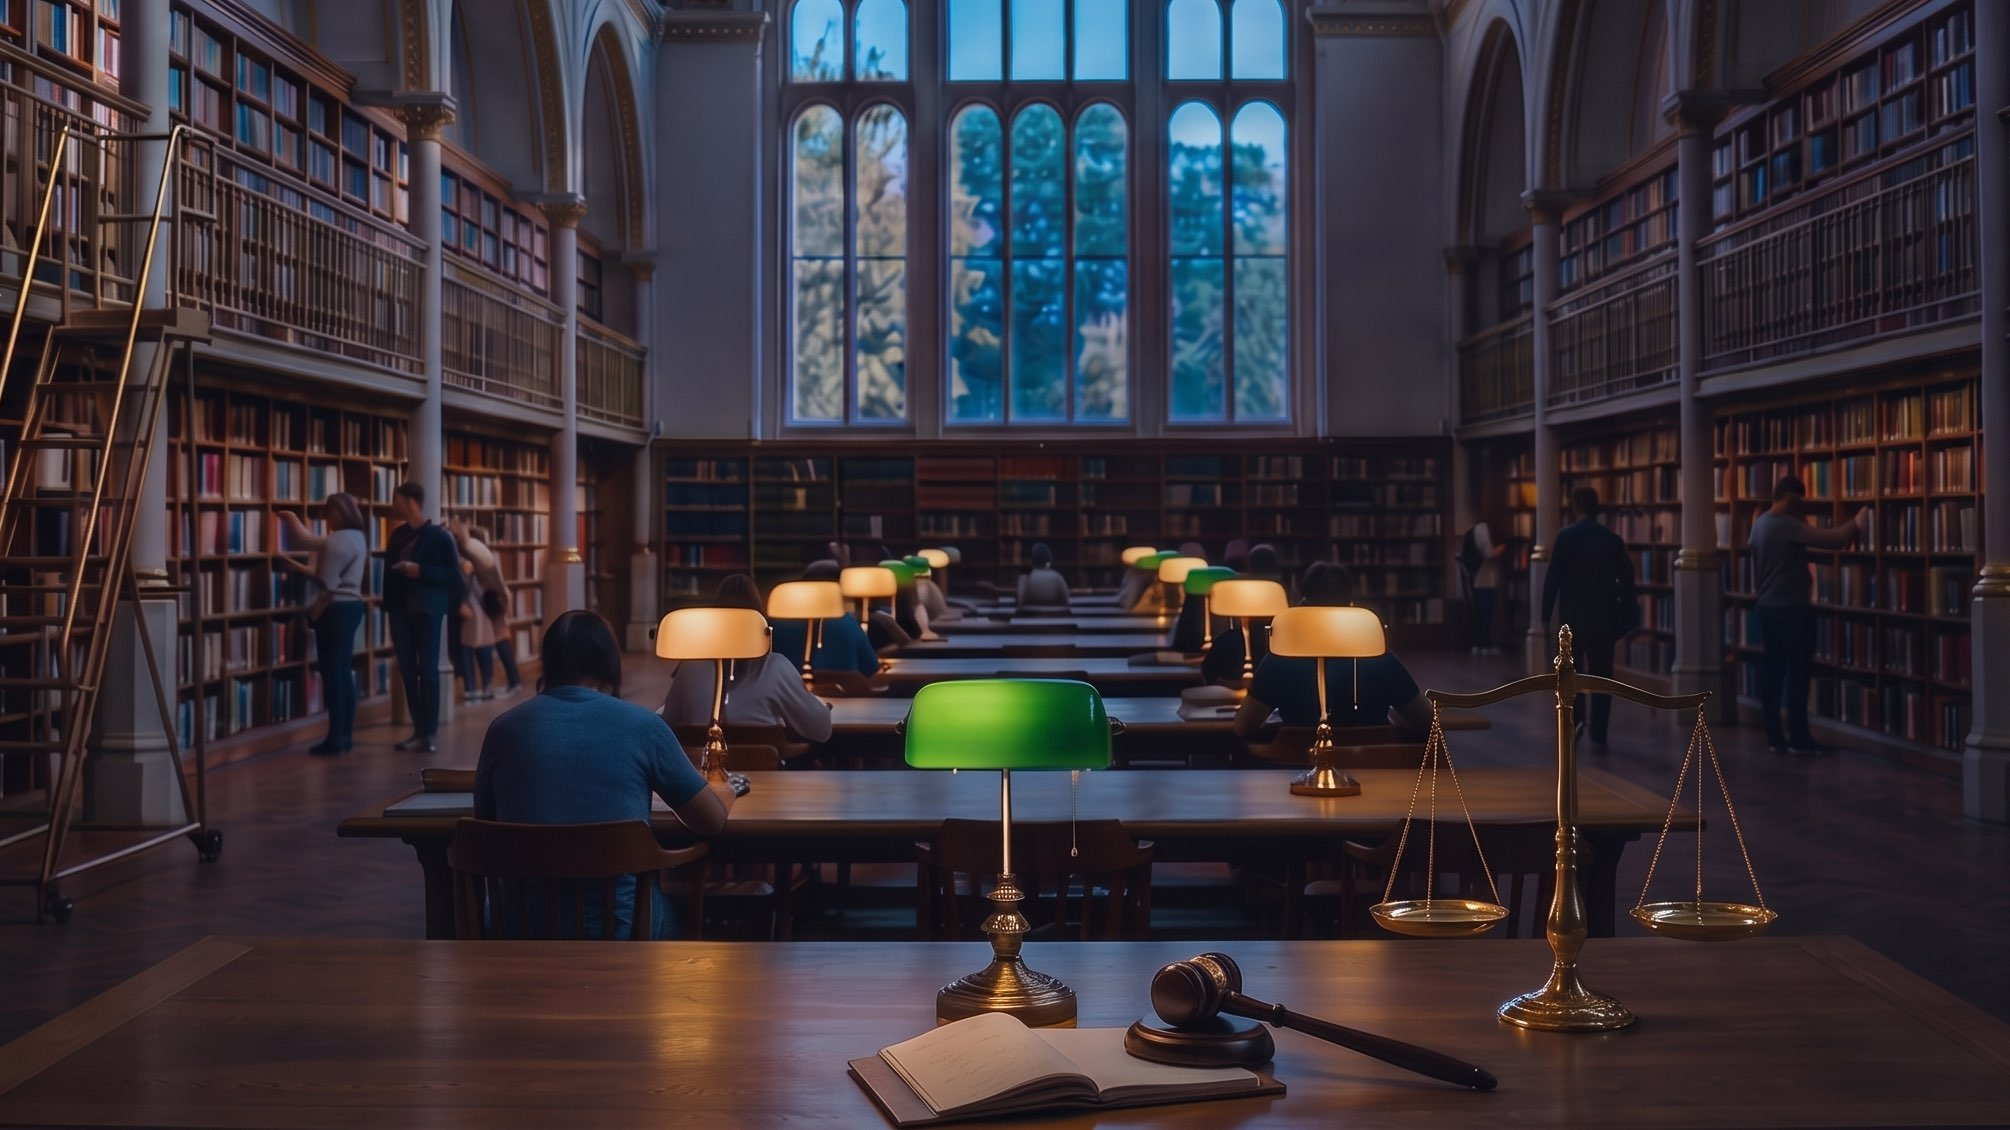
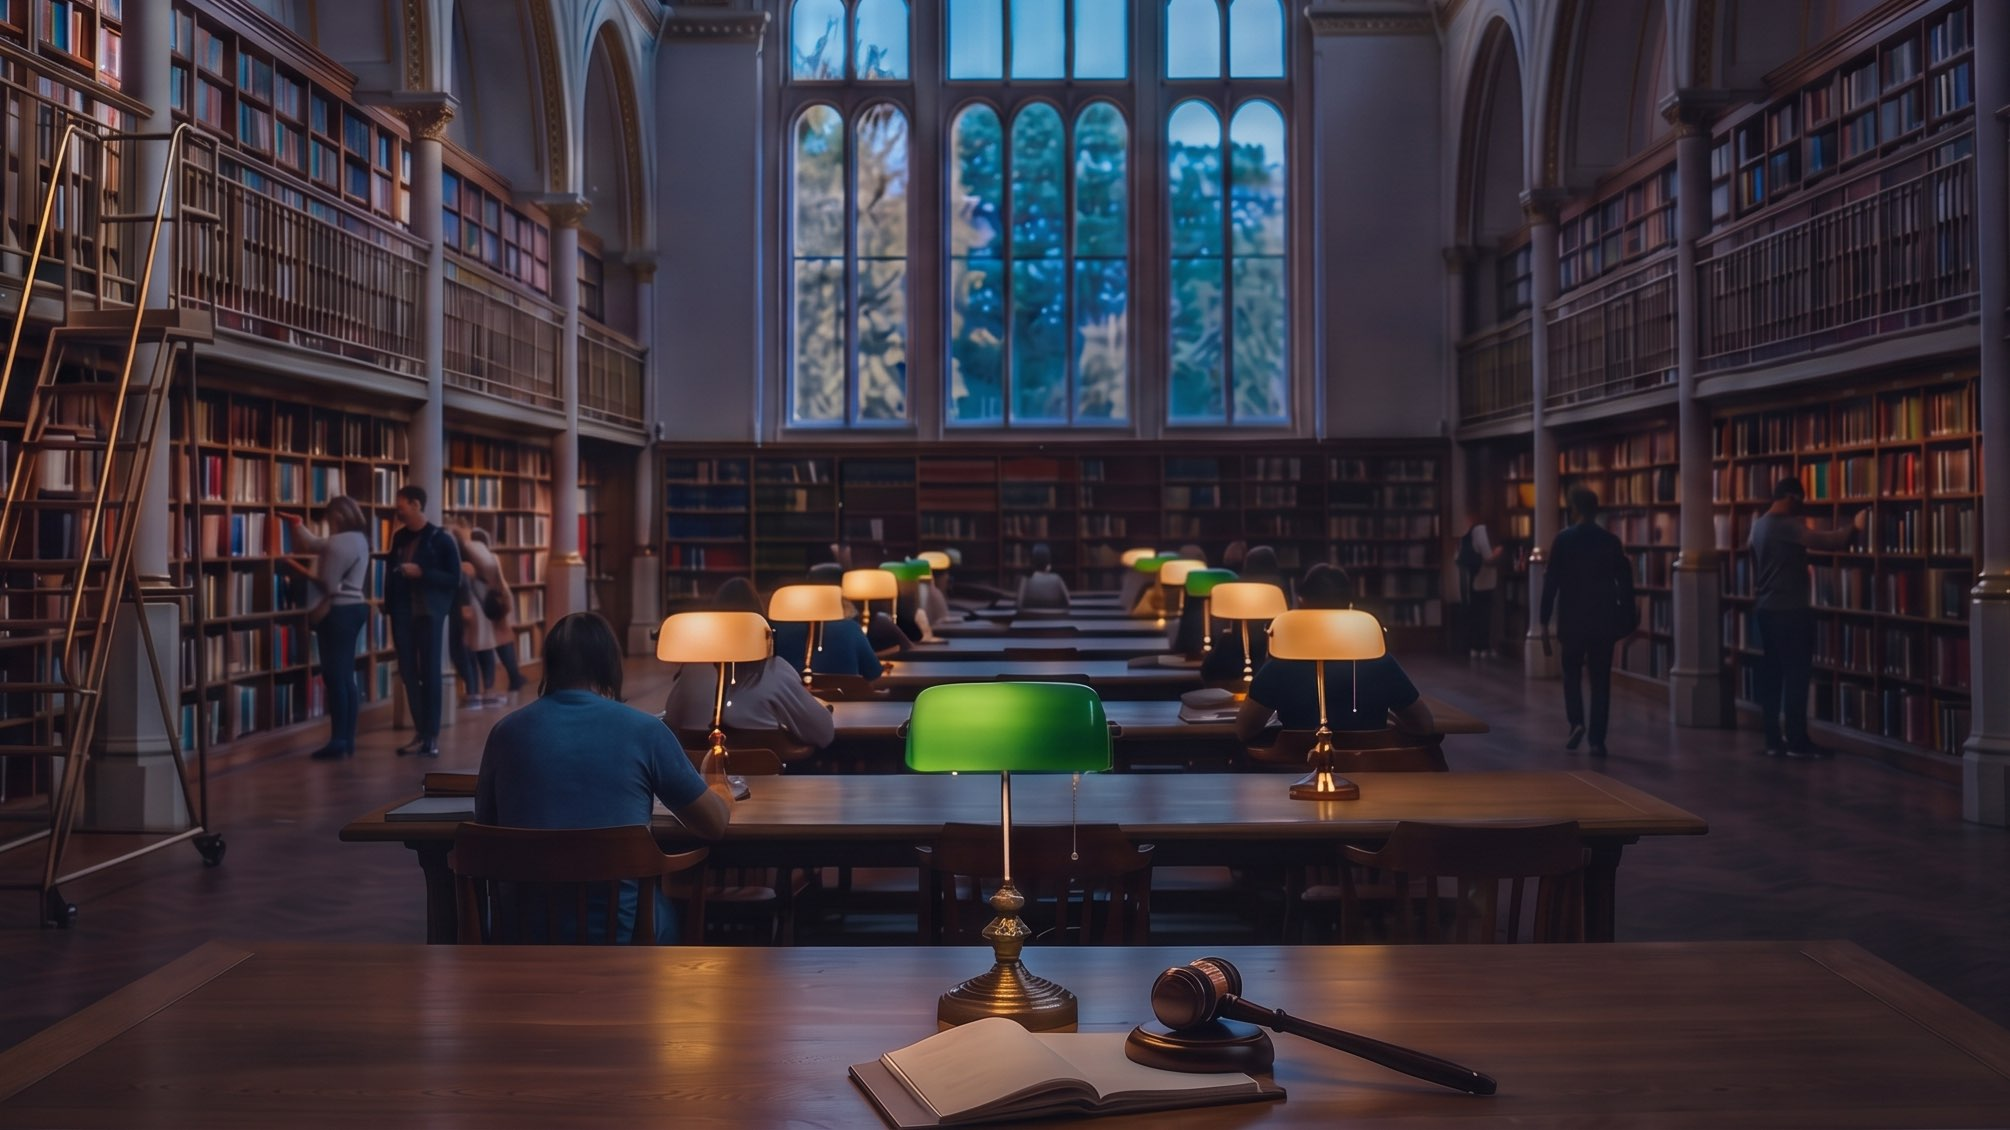
Hero: tiles rise from the screen; pitch on the screen; Lady Justice and scales on the desk
Tiles fan out of the top of the laptop on stems (outer ones wired from the side).
The hero pitch moves onto the laptop screen under 'Tell us what happened'. Blindfolded
Lady Justice (left) and brass scales (right) are cut-outs anchored to the laptop,
>=1100px only. Plate: gavel/lamp/book desk with scales and laptop edited out.

diff --git a/index.html b/index.html
@@ -124,7 +124,7 @@
      this section and can make it several screens tall, and a cover-fit image on a
      3000px box would zoom into one blurry bookshelf. */
   .lobby { position: relative; background: var(--walnut); padding: 124px 24px 64px; overflow: hidden; }
-  .lobby-plate { position: absolute; top: 0; left: 0; right: 0; height: 820px; z-index: 0; pointer-events: none; }
+  .lobby-plate { position: absolute; top: 0; left: 0; right: 0; height: 900px; z-index: 0; pointer-events: none; }
   .lobby-plate img { width: 100%; height: 100%; object-fit: cover; object-position: 30% 50%; display: block; }
   /* Scrim does contrast work, not decoration: the headline sits on the gallery and
      ladder, the brightest part of the plate. Lighten the left stop and the headline
@@ -291,6 +291,16 @@
   .laptop .legacy-pickers .field-label { font-family: var(--sans); font-size: 13px; color: var(--on-dark); }
   .laptop .legacy-pickers select { background: rgba(4,8,15,0.55); color: #eef3fb; border-color: rgba(140,190,255,0.24); }
   .laptop #ncConfirmCard { margin: 0 22px 18px !important; }
+  .laptop .screen-intro { font-size: 15px; line-height: 1.5; color: var(--on-dark); margin: -4px 0 14px; max-width: 36em; }
+  .laptop .field-help { display: none; }   /* the screen intro does this job on the laptop */
+  /* Lady Justice and the scales stand on the desk either side of the computer. They
+     are cut-outs anchored to .laptop, so they stay beside it at every width. */
+  .desk-prop { position: absolute; bottom: 12px; pointer-events: none; filter: drop-shadow(0 14px 10px rgba(0,0,0,0.75)); animation: riseIn 600ms var(--ease) 500ms both; }
+  .prop-justice { right: calc(100% + 64px); height: 320px; }
+  .prop-scales  { left: calc(100% + 52px); height: 210px; }
+  @media (max-width: 1099px) { .desk-prop { display: none; } }
+  /* Room above the laptop for the tiles to rise into. */
+  @media (min-width: 1200px) { .lobby-desk { margin-top: 185px; } }
 
   /* ── Hologram tiles ───────────────────────────────────────────────────────
      What NoCase builds, as floating electronic panels (Dan's reference images):
@@ -306,21 +316,19 @@
   .case-lines .link { stroke: rgba(210,176,122,0.4); stroke-dasharray: 0.02 0.015; animation: linkFlow 4s linear infinite, lineFade 700ms var(--ease) var(--line-delay, 3s) both; }
   .case-lines .spark { fill: #cfe4ff; filter: drop-shadow(0 0 6px #8fc3ff); }
   .case-card {
-    position: absolute; width: 176px; padding: 14px 12px 13px; overflow: hidden; text-align: center;
+    position: absolute; width: 150px; padding: 12px 10px 11px; overflow: hidden; text-align: center;
     background: linear-gradient(160deg, rgba(130,180,255,0.14), rgba(130,180,255,0.03) 60%), rgba(8,12,20,0.55);
-    border: 1px solid rgba(160,205,255,0.5); border-radius: 8px;
+    border: 1px solid rgba(160,205,255,0.5); border-radius: 16px;
     box-shadow: 0 0 28px -4px rgba(110,170,255,0.45), inset 0 0 24px -6px rgba(110,170,255,0.35), 0 14px 26px -12px rgba(0,0,0,0.8);
     transition: border-color 300ms, box-shadow 300ms;
     animation: cardOut 900ms var(--ease) var(--card-delay, 1.2s) both, cardDrift 7s ease-in-out calc(var(--card-delay, 1.2s) + 900ms) infinite;
   }
-  .case-card[data-side="left"]  { rotate: y 14deg; }
-  .case-card[data-side="right"] { rotate: y -14deg; }
   .case-card::after { content: ''; position: absolute; inset: 0; pointer-events: none;
     background: linear-gradient(105deg, transparent 40%, rgba(180,215,255,0.16) 50%, transparent 60%) -120% 0 / 250% 100% no-repeat;
     animation: sheen 6s ease-in-out var(--card-delay, 1.2s) infinite; }
-  .cc-icon { display: block; width: 38px; height: 38px; margin: 0 auto 8px; fill: none; stroke: #e6f0ff; stroke-width: 1.3; stroke-linecap: round; stroke-linejoin: round; filter: drop-shadow(0 0 6px rgba(140,195,255,0.9)); }
+  .cc-icon { display: block; width: 44px; height: 44px; padding: 8px; margin: 0 auto 7px; border-radius: 50%; border: 1px solid rgba(160,205,255,0.55); background: radial-gradient(circle, rgba(140,195,255,0.25), rgba(140,195,255,0.02) 70%); fill: none; stroke: #e6f0ff; stroke-width: 1.3; stroke-linecap: round; stroke-linejoin: round; filter: drop-shadow(0 0 6px rgba(140,195,255,0.9)); }
   .case-card .cc-kind { display: block; font-size: 10px; font-weight: 600; letter-spacing: 0.1em; text-transform: uppercase; color: var(--gilt-shine); margin-bottom: 3px; }
-  .case-card b { display: block; font-family: var(--serif); font-size: 15px; line-height: 1.25; color: #f4f7fb; }
+  .case-card b { display: block; font-family: var(--serif); font-size: 14px; line-height: 1.25; color: #f4f7fb; }
   .case-card span:last-child { display: none; }   /* tiles show icon + title; the detail line is in "What NoCase prepares" */
   .case-card.lit { border-color: #cfe4ff; box-shadow: 0 0 44px -2px rgba(140,195,255,0.8), inset 0 0 30px -4px rgba(140,195,255,0.5), 0 14px 26px -12px rgba(0,0,0,0.8); }
   .case-motes { position: absolute; inset: 0; }
@@ -575,7 +583,6 @@
     <div class="lobby-copy">
       <h1 class="hero-headline">You don't have a&nbsp;case.</h1>
       <p class="hero-sub">Prove us wrong.</p>
-      <p class="hero-desc">Tell us what happened. We argue both sides, tell you where you stand, and build the packet you'd hand a lawyer &mdash; before you spend a dollar on one.</p>
     </div>
 
     <!-- Hologram tiles: what NoCase builds, flying out of the laptop screen.
@@ -603,6 +610,7 @@
             <span class="sheet-head-meta">Texas matters only. Free during beta.</span>
           </div>
           <label class="field-label" for="caseDesc">Tell us what happened</label>
+          <p class="screen-intro">We argue both sides, tell you where you stand, and build the packet you'd hand a lawyer &mdash; before you spend a dollar on one.</p>
           <textarea id="caseDesc" placeholder="Example: My contractor took my $25,000 deposit and never started the work. It has been 6 months and they won't return my calls..."></textarea>
           <p class="field-help">A few sentences is enough to start. You'll get a first read, then a list of what to gather.</p>
           <!-- #caseType / #userSide: hidden at runtime by nocase-v2.3-patch.js but kept in
@@ -642,6 +650,8 @@
       </div>
       </div></div>
       <div class="laptop-base" aria-hidden="true"></div>
+      <img class="desk-prop prop-justice" src="assets/lady-justice.png" alt="" aria-hidden="true" decoding="async">
+      <img class="desk-prop prop-scales" src="assets/scales.png" alt="" aria-hidden="true" decoding="async">
      </div>
     </div>
   </div>
@@ -1148,7 +1158,7 @@ async function ncRunAnalysis() {
   }
 </script>
 
-<script src="/assets/hero-cards.js?v=2" defer></script>
+<script src="/assets/hero-cards.js?v=4" defer></script>
 <script src="/nocase-v2.3-patch.js?v=7" defer></script>
 </body>
 </html>

diff --git a/assets/hero-cards.js b/assets/hero-cards.js
@@ -31,34 +31,47 @@
     if (!wide.matches) return;
     const s = rect(lid);
     const W = grid.clientWidth;
-    const top = s.top - 40, bottom = s.bottom + 30;
     const sx = s.left + s.width / 2, sy = s.top + s.height / 2;
     svg.textContent = '';
     paths = [];
+    const cx = s.left + s.width / 2;
+    // A fan rising out of the top of the screen: per side, outer (low, beside the
+    // laptop, above the statue / scales), middle, inner (high, over the screen).
+    const FAN = [
+      { dx: -230, dy: 20 },     // outer: centre relative to the lid's top-left corner
+      { dx: -60,  dy: -60 },
+      { dx: s.width * 0.22, dy: -105 }
+    ];
     ['left', 'right'].forEach((side, si) => {
       const group = cards.filter(c => c.dataset.side === side);
       const h = group[0].offsetHeight, w = group[0].offsetWidth;
-      const step = (bottom - top - h) / Math.max(group.length - 1, 1);
       group.forEach((c, i) => {
-        // A shallow arc: the middle tile hangs further out than the two ends.
-        const gap = i === 1 ? 110 : 64;
-        const x = side === 'left' ? Math.max(0, s.left - gap - w) : Math.min(W - w, s.right + gap);
-        const y = top + step * i;
+        const f = FAN[i];
+        let mx0 = s.left + f.dx;
+        if (side === 'right') mx0 = 2 * cx - mx0;
+        const x = Math.min(Math.max(mx0 - w / 2, -120), W - w + 120);
+        const y = s.top + f.dy - h / 2;
         c.style.left = x + 'px';
         c.style.top = y + 'px';
         c.style.setProperty('--from-x', (sx - x - w / 2) + 'px');
         c.style.setProperty('--from-y', (sy - y - h / 2) + 'px');
-        const delay = 1.1 + (i * 2 + si) * 0.12;
+        const delay = 1.1 + ((2 - i) * 2 + si) * 0.12;   // inner tiles leave the screen first
         c.style.setProperty('--card-delay', delay + 's');
-        // Wire from the tile's inner edge to the facing edge of the laptop lid.
-        const cx = side === 'left' ? x + w : x, cy = y + h / 2;
-        const tx = side === 'left' ? s.left : s.right;
-        const ty = Math.min(Math.max(cy, s.top + 24), s.bottom - 24);
-        const mx = (cx + tx) / 2;
+        // Stem out of the laptop: from the top edge up to a tile above the screen, or
+        // from the side edge across to a tile that hangs beside it.
         const p = document.createElementNS(NS, 'path');
-        p.setAttribute('d', `M${tx},${ty} C${mx},${ty} ${mx},${cy} ${cx},${cy}`);
+        if (y + h > s.top + 10) {
+          const ex = side === 'left' ? x + w : x, ey = y + h / 2;
+          const tx = side === 'left' ? s.left : s.right, ty = Math.max(ey + 40, s.top + 40);
+          const mx = (ex + tx) / 2;
+          p.setAttribute('d', `M${tx},${ty} C${mx},${ty} ${mx},${ey} ${ex},${ey}`);
+        } else {
+          const ex = x + w / 2, ey = y + h;
+          const tx = Math.min(Math.max(ex, s.left + 36), s.right - 36), ty = s.top;
+          p.setAttribute('d', `M${tx},${ty} C${tx},${ty - 40} ${ex},${ey + 40} ${ex},${ey}`);
+        }
         p.setAttribute('pathLength', '1');
-        // Relayouts (resize, results opening) rebuild the wires; don't replay the draw.
+        // Relayouts (resize, results opening) rebuild the stems; don't replay the draw.
         const wait = delay + 0.6 - since();
         p.style.setProperty('--line-delay', wait > 0 ? wait + 's' : '-1s');
         svg.appendChild(p);
